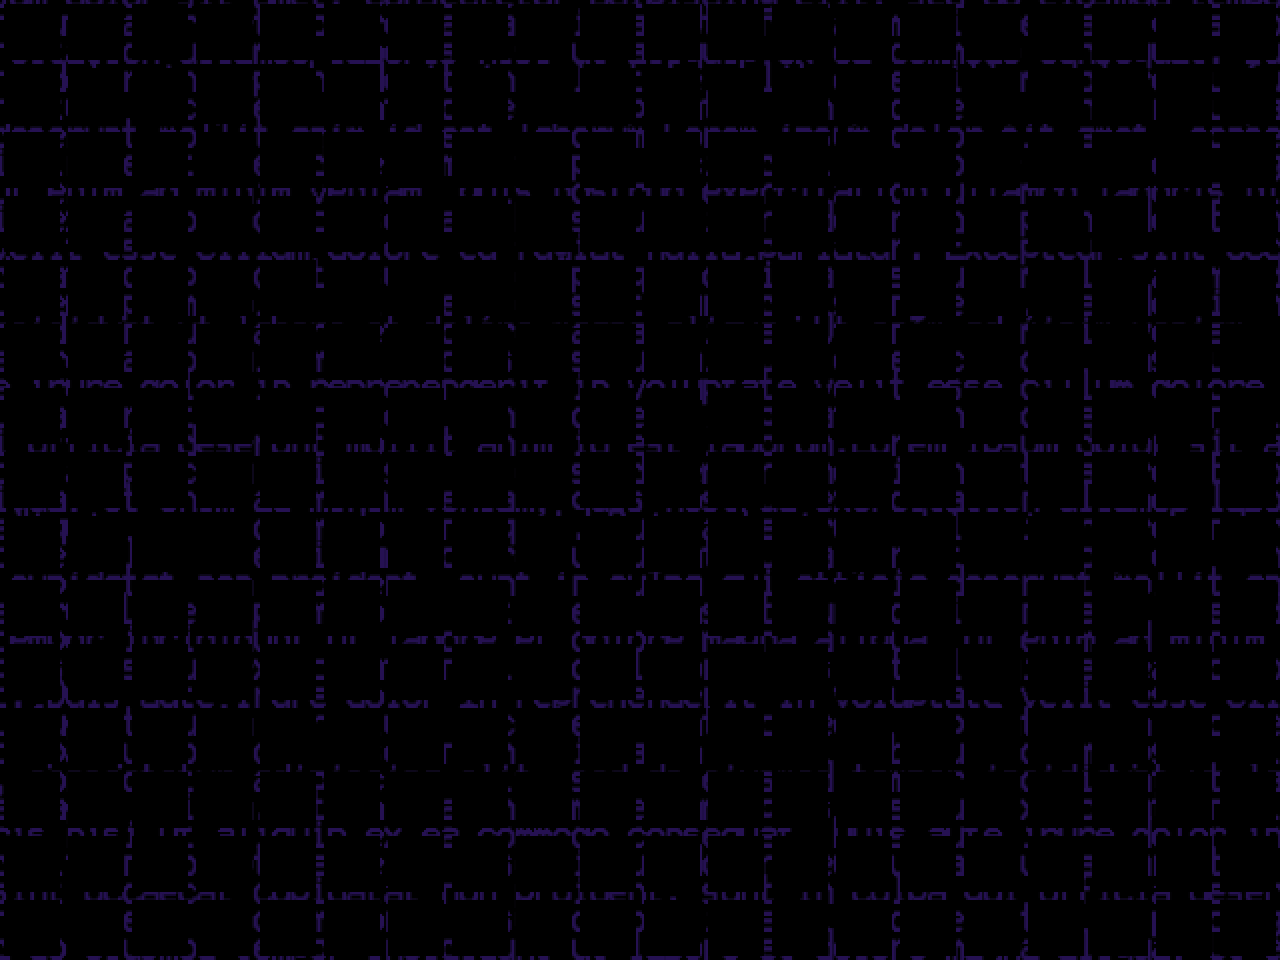
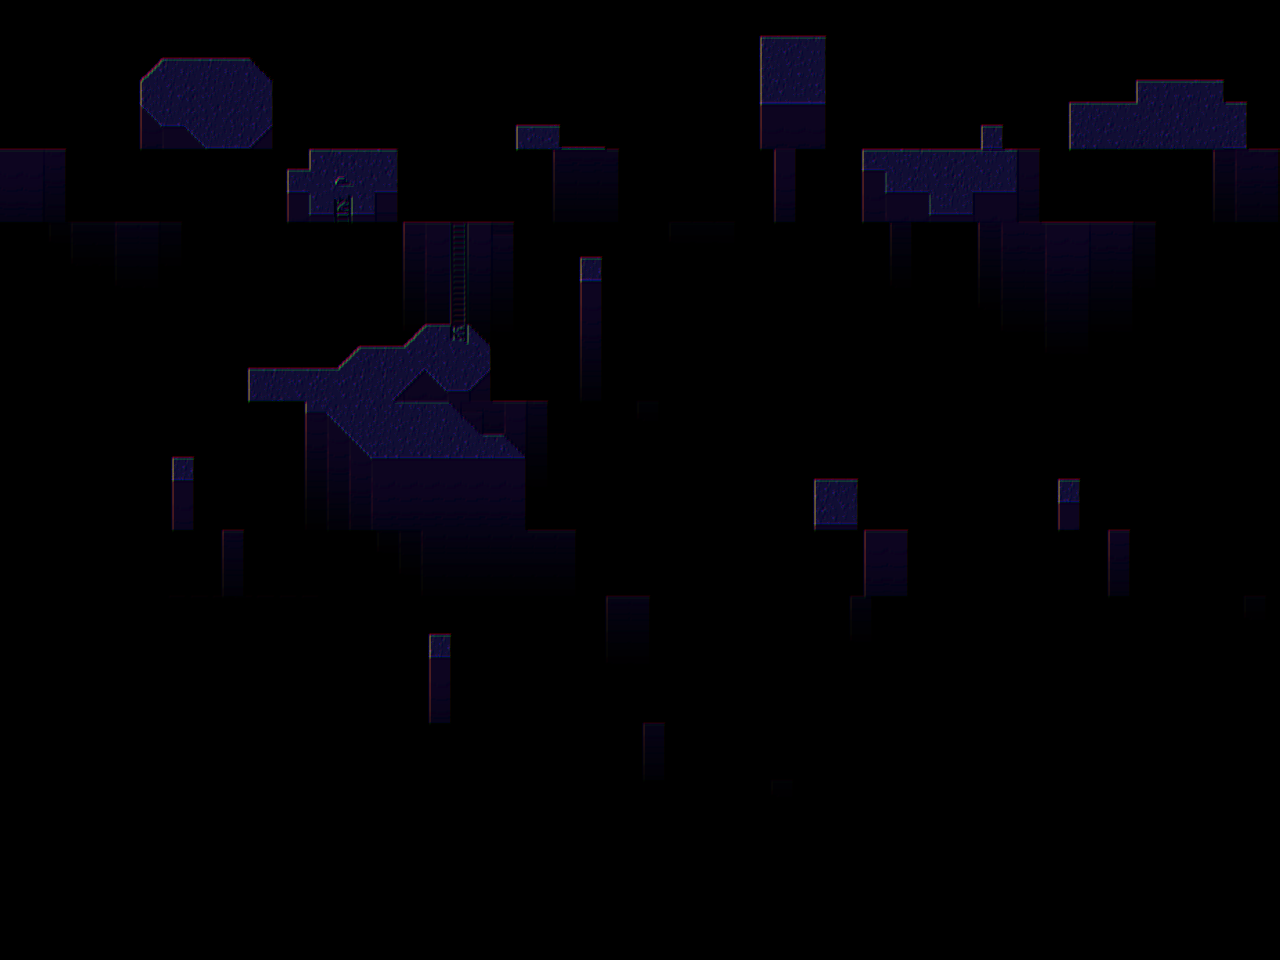
fixed it, why does nobody point this out

diff --git a/index.html b/index.html
@@ -6,6 +6,7 @@
 </head>
 
 <body>
+	
 	<div id="particles-js">
 	</div>
 	<!-- meta -->
@@ -99,10 +100,9 @@
 
 
 	<div id="button">
-		...aaaaaaaa
+
 	</div>
 	</div>
-	<iframe style="border: 0; width: 400px; height: 472px;" src="https://bandcamp.com/EmbeddedPlayer/album=2422697776/size=large/bgcol=333333/linkcol=e99708/artwork=small/transparent=true/" seamless><a href="https://eternabyte.bandcamp.com/album/oneshot-aftermath-volume-1">OneShot Aftermath - Volume 1 by Eternabyte</a></iframe>
 	<audio id="tick" src="res/tick.wav"></audio> <audio id="tock" src="res/tock.wav"></audio> <audio autoplay="" loop=""><source src="res/EmptyWords.ogg" type="audio/ogg"></audio> <!-- <script src="solstice.js"> </script> -->
 </body>
 </html>

diff --git a/streamstyle.css b/streamstyle.css
@@ -3,7 +3,7 @@
 html,
 body {
 	line-height: 1;
-	background-image: url("codebg.png");
+	background-image: url("res/codebg.png");
 	
 }
 
@@ -105,7 +105,9 @@ body,
 	opacity: 1;
 	-webkit-transition: opacity .8s ease, -webkit-transform 1.4s ease;
 	transition: opacity .8s ease, transform 1.4s ease;
-	background: transparent;
+	background-image: url("res/codebg.gif");
+	background-repeat repeat;
+	
 }
 
 #particles-js {

diff --git a/particles.js b/particles.js
@@ -23,7 +23,7 @@ var pJS = function(tag_id, params){
         value: 400,
         density: {
           enable: true,
-          value_area: 800
+          value_area: 10
         }
       },
       color: {
